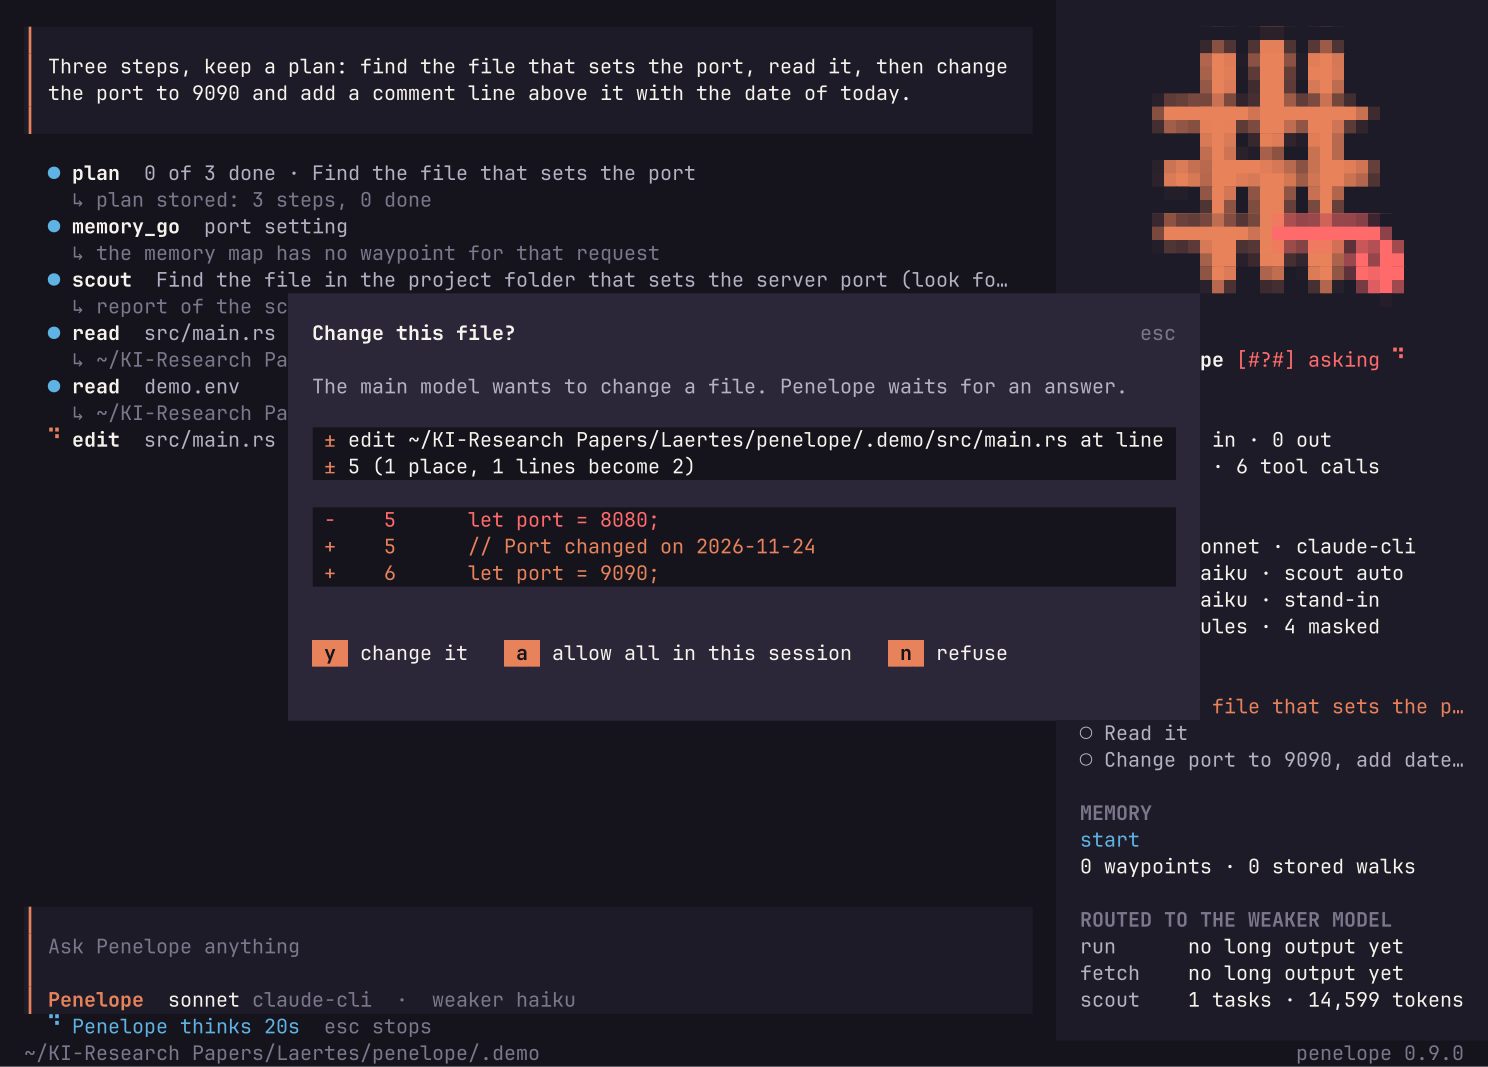
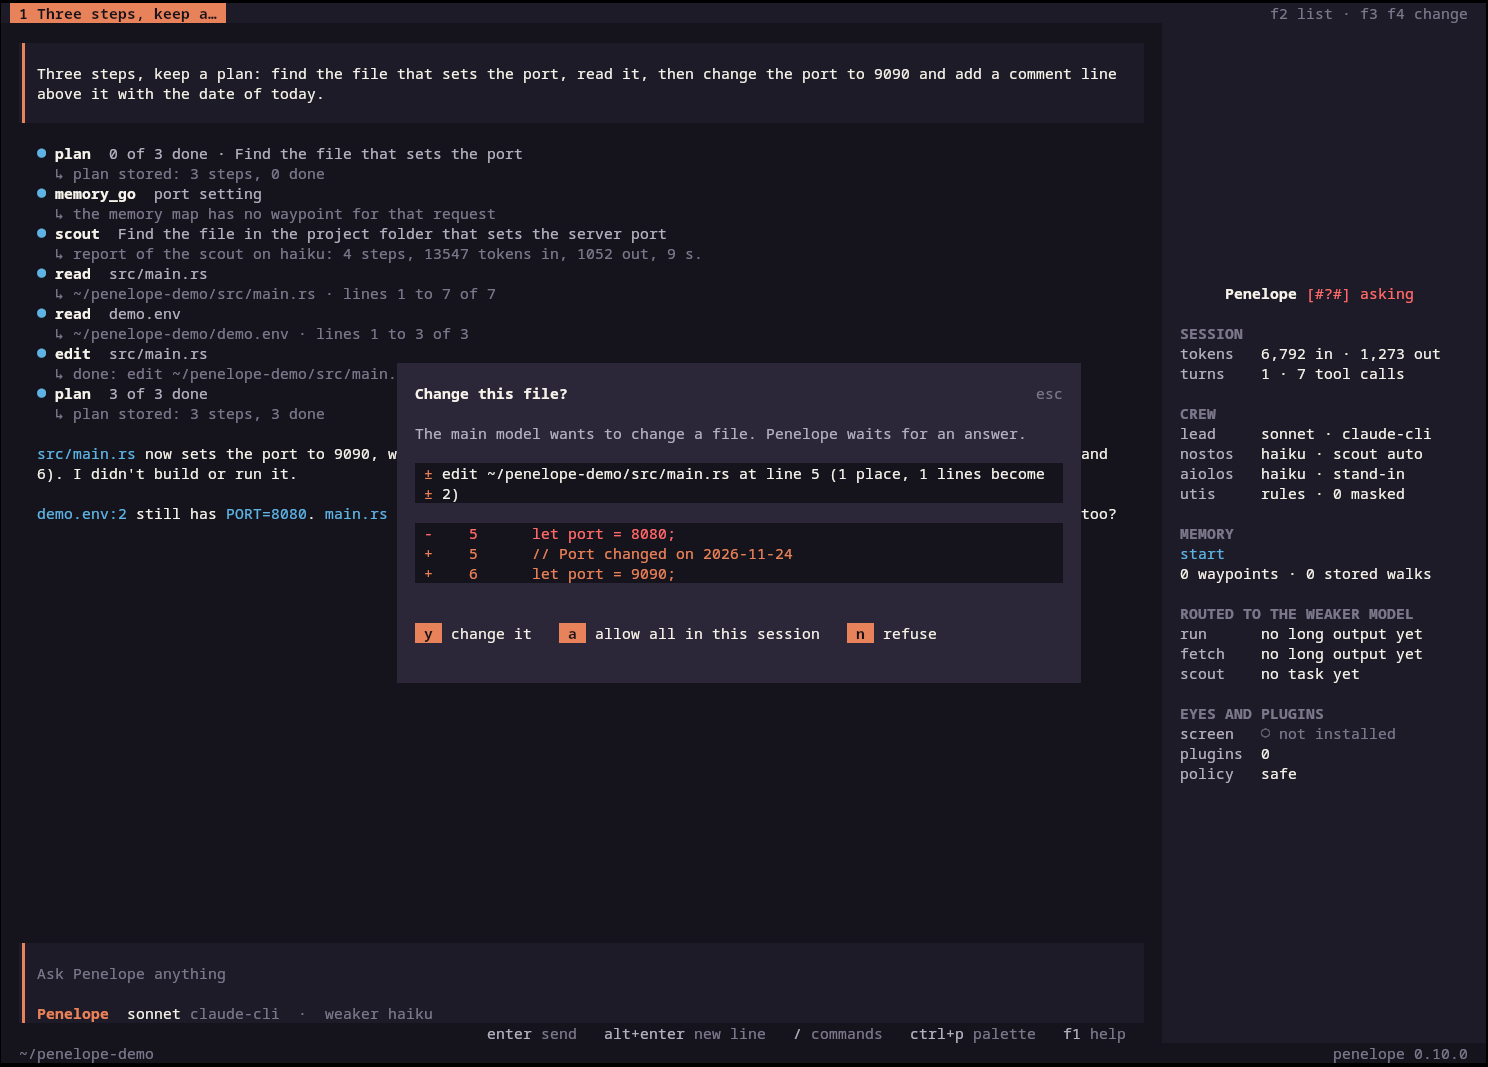
Screens taken again with the painted picture: start, chat, question before a change, providers

diff --git a/README.md b/README.md
@@ -16,7 +16,7 @@
 Penelope is a coding agent for the terminal, written in Rust. It sends searches and long tool output to a cheaper
 model, keeps notes in a memory map, and asks before every change to a file.
 
-<p align="center"><img src="docs/screens/chat.png" alt="penelope: transcript on the left, the woven mark and the session numbers on the right" width="100%"></p>
+<p align="center"><img src="docs/screens/chat.png" alt="penelope in kitty: transcript on the left, the painted picture and the session numbers on the right" width="100%"></p>
 
 ## Status
 
@@ -142,7 +142,7 @@ The 22 tools: `run`, `run_detail`, `job_start`, `job_read`, `job_stop`, `fetch`,
 
 The painted picture is a real picture, sent through the graphics protocol of kitty. It shows in kitty, Ghostty, WezTerm and Konsole.
 Other terminals and tmux show the name alone. `PENELOPE_PICTURE=off` switches it off, `PENELOPE_PICTURE=on` forces it.
-The start screen above is a picture of kitty on a virtual display. The other three screens are from version 0.9.0 and show the earlier woven mark.
+The screens in this file are pictures of kitty on a virtual display. The chat screen shows the stored transcript of the run of 2026-11-24, opened as a session.
 
 `penelope` without arguments opens it. `penelope chat --plain` keeps the line by line chat. A pipe on standard input
 or output selects the plain chat by itself.
